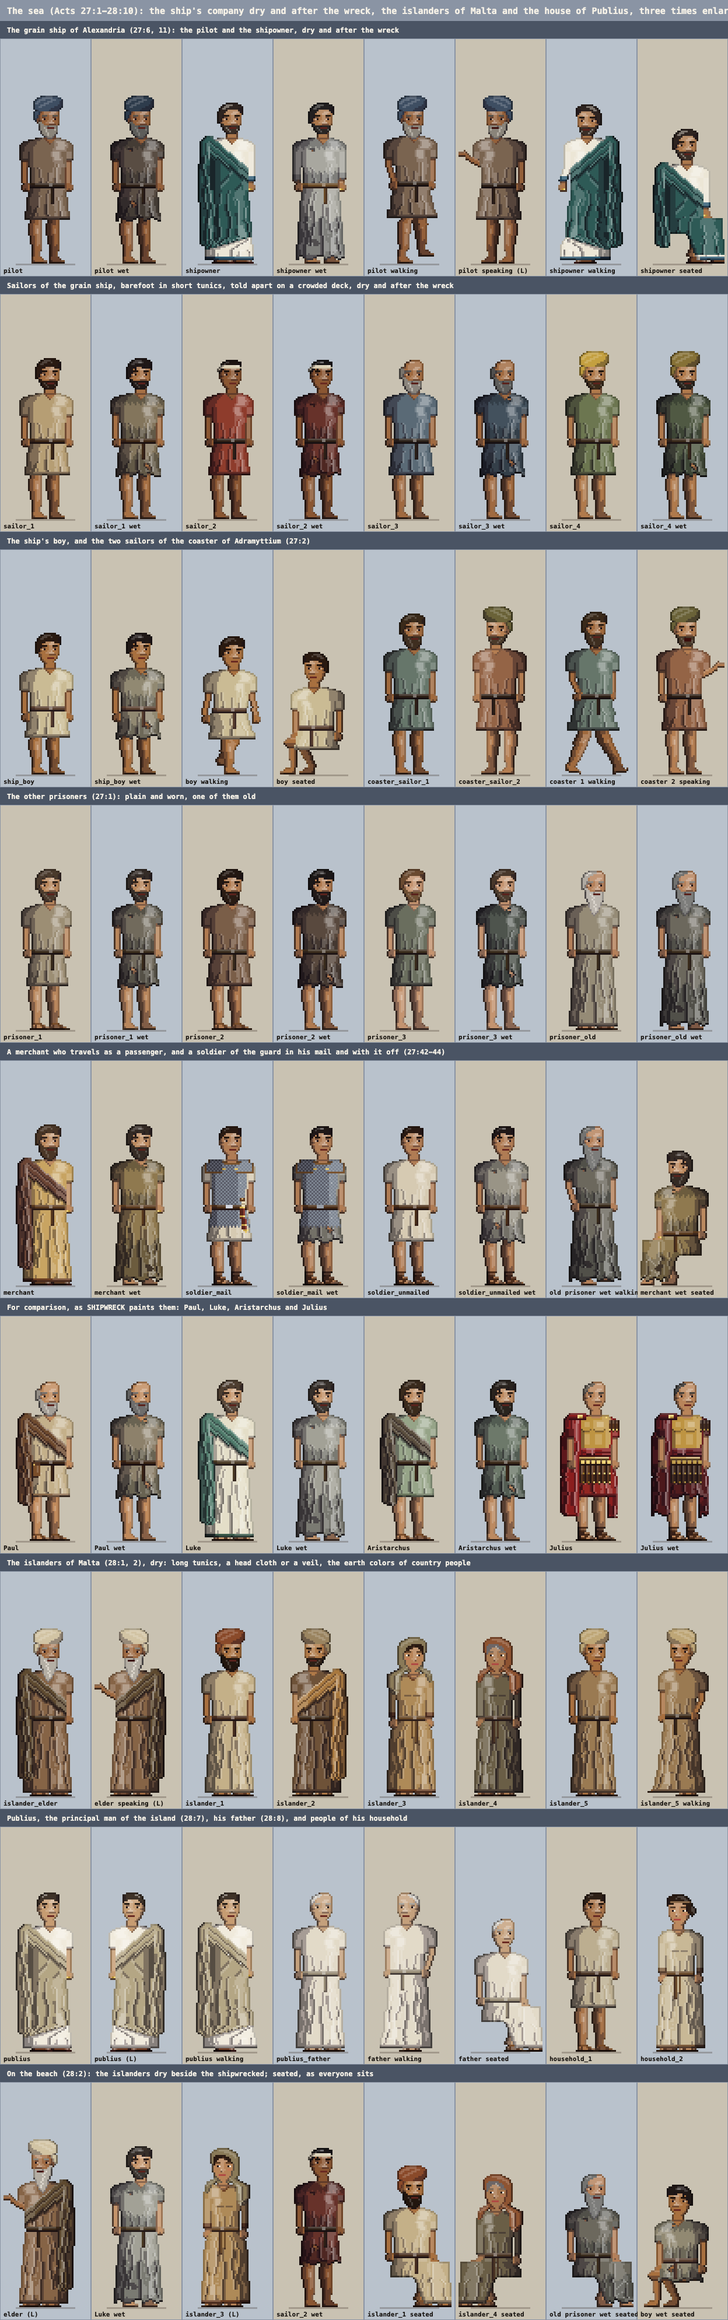
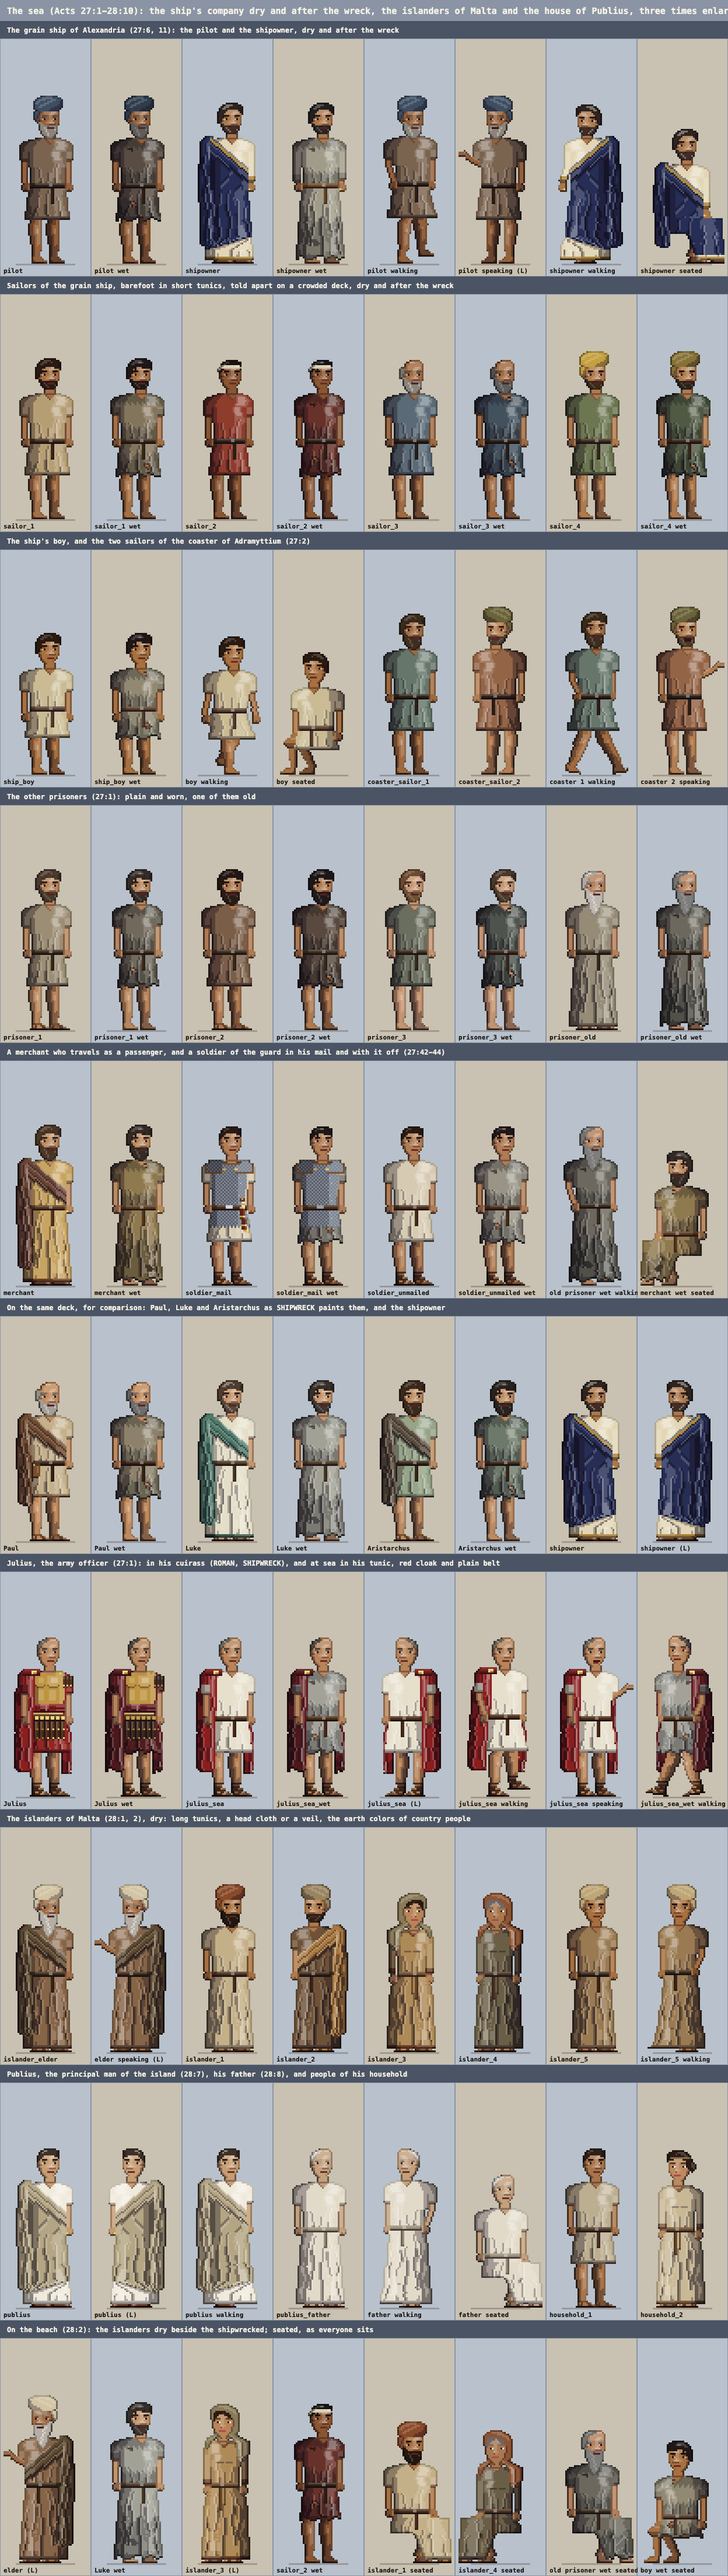
Sea cast: the shipowner in a deep indigo mantle with a narrow ochre border over a cream tunic, told apart from Luke; Julius at sea (julius_sea, julius_sea_wet) in his white tunic, red cloak and plain belt, without his cuirass; a mantle's border goes with the mantle in the wreck

diff --git a/shared/cast.js b/shared/cast.js
@@ -98,10 +98,10 @@ const ROMAN={
 };
 
 /* shipwrecked(base, opts): derive a wet, torn shipwreck survivor look from any existing character look.
-   Drops dry cloaks/helmets/spears unless keepCloak/keepArmor is set, applies soaked cloth/hair (wet:1) and ragged tears (torn:1..3). */
+   Drops dry cloaks (and the border along a mantle)/helmets/spears unless keepCloak/keepArmor is set, applies soaked cloth/hair (wet:1) and ragged tears (torn:1..3). */
 function shipwrecked(base,opts){
   const o=Object.assign({},base,{p:null,gt:null,wet:1,torn:(opts&&opts.torn)||1});
-  if(!(opts&&opts.keepCloak)){delete o.cloak;delete o.cape;delete o.offCloak;delete o.himation;delete o.toga}
+  if(!(opts&&opts.keepCloak)){delete o.cloak;delete o.cape;delete o.offCloak;delete o.himation;delete o.toga;delete o.edge}
   if(!(opts&&opts.keepArmor)){delete o.armor;delete o.armorStyle;delete o.pteruges;delete o.sash}
   delete o.helm;delete o.helmStyle;delete o.crest;delete o.spear;delete o.pilum;delete o.gladius;delete o.pouch;
   if(opts&&opts.barefoot!==undefined)o.barefoot=opts.barefoot;else if(!o.caligae)o.barefoot=1;
@@ -263,9 +263,10 @@ const SHIPWRECK={
    The grain ship of Alexandria (27:6):
      pilot             the steersman (27:11): an old hand of the sea, weathered dark, his beard grey, a dark blue head cloth against the sun
                        and the spray, a short brown tunic, barefoot.
-     shipowner         the owner of the ship and her cargo (27:11), a man of means from Alexandria: a long fine tunic with long sleeves and a
-                       band of blue at the hems, a sea-green mantle wrapped over it (himation), sandals, one ring; his beard close and his
-                       hair receding. Nothing on him is the sign of a god.
+     shipowner         the owner of the ship and her cargo (27:11), a man of means from Alexandria: a long fine cream tunic with long sleeves and a
+                       band of ochre at the hems, a deep indigo mantle wrapped over it (himation) with a narrow ochre border along it (edge),
+                       sandals, one ring; his beard close and his hair receding. No one else on the deck wears his colors (Luke wears a white
+                       tunic under a teal mantle, Julius a red cloak), and nothing on him is the sign of a rank or of a god.
      sailor_1 .. _4    sailors, barefoot in short tunics, each told apart at a glance on a crowded deck: sailor_1 the sailor of the earlier
                        sheets (SHIPWRECK.sailor_wet), short beard, a sand-colored tunic; sailor_2 young, dark, his hair cropped, a cloth bound
                        round his forehead and a madder-red tunic; sailor_3 bald, with a grey full beard and a slate-blue tunic; sailor_4 a
@@ -280,13 +281,17 @@ const SHIPWRECK={
                        over his shoulders, a full beard, a ring and good shoes.
    soldier_mail, soldier_unmailed   a soldier of the guard aboard, in mail and his belt with its sword, bareheaded at sea; and the same man
                        with his mail off, in his tunic, belt and boots: the one who cannot swim in it (Chapter Twenty-Three's planks).
+   julius_sea          Julius, the army officer of 27:1 (ROMAN.centurion_julius, the same head and the same red cloak), as he is on the
+                       days at sea: without his cuirass, in a plain white tunic with his cloak over the shoulder, a plain belt and his
+                       boots; julius_sea_wet the same after the wreck, keeping his cloak. ROMAN.centurion_julius and SHIPWRECK.julius_dry
+                       and julius_wet, in the cuirass, stay as they are.
    The islanders of Malta (28:1, 2): of Phoenician descent under Roman rule, with a language of their own. Country people, dry, in long
      tunics, in the earth colors of undyed and plant-dyed wool, the men with a head cloth, the women with a veil,
      so that they are plainly another people than the ship's company in its short tunics.
      islander_elder    the older man who talks with Luke: a long white beard, a pale head cloth, a brown tunic and an umber mantle.
      islander_1, _2    men: a wheat-colored tunic and a rust head cloth with a full black beard; a dark tunic, an ochre mantle and a
                        dun head cloth with a young beard.
-     islander_3, _4    women: a veil of dark umber over an ochre tunic; an older woman, her hair greying under a rust veil.
+     islander_3, _4    women: a veil of undyed brown over an ochre tunic; an older woman, her hair greying under a rust veil.
      islander_5        a young man, beardless, a tawny tunic and a sand-colored head cloth (he brings the sticks).
    Publius and his house (28:7-10):
      publius           "the principal man of the island", probably the leading Roman officer there and a man of lands (Insight on the
@@ -298,8 +303,8 @@ const SHIPWRECK={
 const SAILOR_1=Object.assign({},SAILOR_ALEX,{barefoot:1,ph:11500});
 const SEA_DRY={
   pilot:{skin:'#94603a',hair:'#6a625a',beard:'#8a847a',grey:'#b4aea4',fullBeard:1,brow:'#5a524a',wrap:'#3e4e62',tunic:'#7a6450',belt:'#2e2016',barefoot:1,ph:11700},
-  shipowner:{skin:'#ac784c',hair:'#2e2420',grey:'#7e766e',beard:'#3a2e26',shortBeard:1,receding:1,brow:'#241a12',tunic:'#ece6d6',long:1,longSleeve:1,trim:'#2e5a72',
-    cloak:'#2e5a56',himation:1,belt:'#6a4a26',ring:1,shoes:'#6a4026',ph:11900},
+  shipowner:{skin:'#ac784c',hair:'#2e2420',grey:'#7e766e',beard:'#3a2e26',shortBeard:1,receding:1,brow:'#241a12',tunic:'#e2d6b6',long:1,longSleeve:1,trim:'#a8823a',
+    cloak:'#262e56',himation:1,edge:'#b08a3a',belt:'#6a4a26',ring:1,shoes:'#6a4026',ph:11900},
   sailor_1:SAILOR_1,
   sailor_2:{skin:'#8a5632',hair:'#1e1410',brow:'#1a100a',crop:1,slim:1,tunic:'#8e3c2c',belt:'#2e2016',sweat:'#d8ccb0',barefoot:1,ph:12100},
   sailor_3:{skin:'#a06a40',hair:'#7a746c',beard:'#8a847c',grey:'#b8b2aa',bald:1,fullBeard:1,brow:'#5a544e',tunic:'#5a6a76',belt:'#2a2018',barefoot:1,ph:12300},
@@ -313,6 +318,8 @@ const SEA_DRY={
   prisoner_old:{skin:'#b4805a',hair:'#b0aaa2',beard:'#bcb6ae',grey:'#dad4cc',thin:1,longBeard:1,brow:'#8e8880',tunic:'#958b76',long:1,belt:'#3a2c1c',ph:13700},
   merchant:{skin:'#bc8a60',hair:'#4a3626',beard:'#4a3626',fullBeard:1,brow:'#30221a',tunic:'#c8a462',long:1,trim:'#6a3e22',cloak:'#6a4434',belt:'#5a3a1e',ring:1,shoes:'#5a3a22',ph:13900},
   soldier_mail:{skin:'#b07c54',hair:'#2a1a12',brow:'#20140e',crop:1,tunic:'#d6cab2',armor:'#7e8692',armorStyle:'mail',belt:'#4a2e18',milBelt:1,caligae:1,gladius:1,ph:14100},
+  julius_sea:{skin:ROMAN.centurion_julius.skin,hair:ROMAN.centurion_julius.hair,grey:ROMAN.centurion_julius.grey,brow:ROMAN.centurion_julius.brow,crop:1,thin:1,
+    tunic:'#e6dfcc',cloak:ROMAN.centurion_julius.cloak,offCloak:1,belt:'#4a2c16',caligae:1,ph:ROMAN.centurion_julius.ph},
   soldier_unmailed:{skin:'#b07c54',hair:'#2a1a12',brow:'#20140e',crop:1,tunic:'#d6cab2',belt:'#4a2e18',caligae:1,ph:14100},
   islander_elder:{skin:'#9e6a42',wrap:'#d2c4a4',beard:'#b4aea4',grey:'#dcd6cc',longBeard:1,brow:'#8a847a',tunic:'#866446',long:1,cloak:'#5e4a30',belt:'#3a2818',ph:14300},
   islander_1:{skin:'#a8703f',wrap:'#8a4a2a',beard:'#22160e',fullBeard:1,brow:'#1e140c',tunic:'#c4b088',long:1,belt:'#4a3020',ph:14500},
@@ -341,7 +348,8 @@ const SEA_WET={
   prisoner_old_wet:shipwrecked(SEA_DRY.prisoner_old,{torn:2,barefoot:1}),
   merchant_wet:shipwrecked(SEA_DRY.merchant,{torn:1,barefoot:1}),
   soldier_mail_wet:shipwrecked(SEA_DRY.soldier_mail,{torn:1,keepArmor:1,barefoot:0}),
-  soldier_unmailed_wet:shipwrecked(SEA_DRY.soldier_unmailed,{torn:2,barefoot:0})
+  soldier_unmailed_wet:shipwrecked(SEA_DRY.soldier_unmailed,{torn:2,barefoot:0}),
+  julius_sea_wet:shipwrecked(SEA_DRY.julius_sea,{torn:2,keepCloak:1,barefoot:0})
 };
 const SEA=Object.assign({},SEA_DRY,SEA_WET);
 

diff --git a/tools/playtest-harness.html b/tools/playtest-harness.html
@@ -857,18 +857,22 @@
     if(stop==='sea'){const S=C.SEA,W=C.SHIPWRECK,K=C.CAESAREA,ids=Object.keys(S),dry=ids.filter(k=>!/_wet$/.test(k)),wet=ids.filter(k=>/_wet$/.test(k));checkSet(S,'sea');
       const crew=['pilot','sailor_1','sailor_2','sailor_3','sailor_4','ship_boy','coaster_sailor_1','coaster_sailor_2'],isl=dry.filter(k=>/^islander_/.test(k));
       ok(['pilot','shipowner','sailor_1','sailor_2','sailor_3','sailor_4','ship_boy','coaster_sailor_1','coaster_sailor_2','prisoner_1','prisoner_2','prisoner_3','prisoner_old',
-        'merchant','soldier_mail','soldier_unmailed','islander_elder','islander_1','islander_2','islander_3','islander_4','islander_5','publius','publius_father','household_1','household_2'].every(k=>S[k]),
+        'merchant','soldier_mail','soldier_unmailed','julius_sea','islander_elder','islander_1','islander_2','islander_3','islander_4','islander_5','publius','publius_father','household_1','household_2'].every(k=>S[k]),
         'the sea: '+dry.length+' looks dry and '+wet.length+' wet, every one the chapters ask for');
       ok(wet.every(k=>S[k].wet&&S[k].torn&&S[k.replace(/_wet$/,'')]&&S[k].skin===S[k.replace(/_wet$/,'')].skin)&&dry.every(k=>!S[k].wet&&!S[k].torn),
         'everyone from the wreck is wet and torn, each made from his own dry look; nobody dry is wet');
       ok(crew.every(k=>!S[k].long&&!S[k].cloak&&S[k].barefoot)&&crew.filter(k=>S[k+'_wet']).every(k=>S[k+'_wet'].barefoot),'the sailors and the pilot are barefoot in short tunics');
       ok(isl.length>=5&&isl.every(k=>S[k].long&&(S[k].wrap||S[k].veil))&&!crew.some(k=>S[k].long)&&isl.filter(k=>S[k].veil).length>=2,'the islanders wear long tunics, the men a head cloth and the women a veil');
-      ok(!S.publius.toga&&!S.publius.clavus&&!S.publius.edge&&!S.publius.diadem&&S.publius.himation&&S.publius.ring&&!S.publius.beard&&ids.every(k=>!S[k].diadem&&!S[k].toga&&!S[k].clavus&&!S[k].edge),
-        'Publius is a Roman at home in a tunic and mantle, with no toga, purple or wreath, and nobody here wears a sign of office');
+      ok(!S.publius.toga&&!S.publius.clavus&&!S.publius.edge&&!S.publius.diadem&&S.publius.himation&&S.publius.ring&&!S.publius.beard&&ids.every(k=>!S[k].diadem&&!S[k].toga&&!S[k].clavus)&&ids.every(k=>!S[k].edge||k==='shipowner'),
+        'Publius is a Roman at home in a tunic and mantle, with no toga, purple or wreath; nobody here wears a toga, a purple stripe or a diadem, and only the shipowner a border on his mantle');
       ok(S.publius_father.long&&!S.publius_father.cloak&&S.soldier_mail_wet.armor&&!S.soldier_unmailed.armor&&!S.soldier_unmailed_wet.armor&&!S.soldier_unmailed_wet.barefoot&&!S.soldier_mail_wet.gladius,
         'his father in a plain long tunic; the soldier in his mail and with it off, in his boots, his sword lost');
       {const same=(a,b)=>JSON.stringify(Object.keys(a).filter(k=>!/^(p|gt|ph|barefoot)$/.test(k)).sort().map(k=>[k,a[k]]))===JSON.stringify(Object.keys(b).filter(k=>!/^(p|gt|ph|barefoot)$/.test(k)).sort().map(k=>[k,b[k]]));
         ok(same(S.sailor_1_wet,W.sailor_wet)&&same(S.prisoner_1_wet,W.prisoner_wet)&&same(W.luke_dry,K.luke),'the sailor and the prisoner of the shipwreck sheet are the same men here, and Luke is the same man')}
+      {const J=C.ROMAN.centurion_julius,js=S.julius_sea,jw=S.julius_sea_wet;
+        ok(['skin','hair','grey','brow','crop','thin','cloak','offCloak','caligae'].every(k=>js[k]===J[k])&&!js.armor&&!js.milBelt&&!js.gladius&&js.belt&&js.tunic!==J.tunic&&jw.cloak===J.cloak&&jw.wet&&!jw.armor&&!jw.barefoot&&J.armor&&W.julius_dry===J&&W.julius_wet.armor,
+          'Julius at sea is the same man as Julius in his cuirass: his head and his red cloak, a plain white tunic and a plain belt, his boots; wet, he keeps the cloak');
+        ok(S.shipowner.cloak!==K.luke.cloak&&S.shipowner.tunic!==K.luke.tunic&&S.shipowner.cloak!==J.cloak&&S.shipowner.edge&&!S.shipowner_wet.cloak,'the shipowner wears a mantle no one else on the deck wears, Luke'+"'s"+' or Julius'+"'s"+' least of all')}
       const PAIR=k=>[[k,S[k]],[k+' wet',S[k+'_wet']]],
         ROWS=[
         ['The grain ship of Alexandria (27:6, 11): the pilot and the shipowner, dry and after the wreck',[...PAIR('pilot'),...PAIR('shipowner'),['pilot walking',S.pilot,1,10],['pilot speaking (L)',S.pilot,-1,0,2,2],['shipowner walking',S.shipowner,-1,8],['shipowner seated',S.shipowner,1,-1]]],
@@ -876,7 +880,8 @@
         ['The ship\'s boy, and the two sailors of the coaster of Adramyttium (27:2)',[...PAIR('ship_boy'),['boy walking',S.ship_boy,1,8],['boy seated',S.ship_boy,-1,-1],['coaster_sailor_1',S.coaster_sailor_1],['coaster_sailor_2',S.coaster_sailor_2,-1,0],['coaster 1 walking',S.coaster_sailor_1,1,12],['coaster 2 speaking',S.coaster_sailor_2,1,0,3,2]]],
         ['The other prisoners (27:1): plain and worn, one of them old',[...PAIR('prisoner_1'),...PAIR('prisoner_2'),...PAIR('prisoner_3'),...PAIR('prisoner_old')]],
         ['A merchant who travels as a passenger, and a soldier of the guard in his mail and with it off (27:42-44)',[...PAIR('merchant'),...PAIR('soldier_mail'),...PAIR('soldier_unmailed'),['old prisoner wet walking',S.prisoner_old_wet,1,10],['merchant wet seated',S.merchant_wet,-1,-1]]],
-        ['For comparison, as SHIPWRECK paints them: Paul, Luke, Aristarchus and Julius',[['Paul',W.paul_dry],['Paul wet',W.paul_wet],['Luke',W.luke_dry],['Luke wet',W.luke_wet],['Aristarchus',K.aristarchus],['Aristarchus wet',W.aristarchus_wet],['Julius',W.julius_dry],['Julius wet',W.julius_wet]]],
+        ['On the same deck, for comparison: Paul, Luke and Aristarchus as SHIPWRECK paints them, and the shipowner',[['Paul',W.paul_dry],['Paul wet',W.paul_wet],['Luke',W.luke_dry],['Luke wet',W.luke_wet],['Aristarchus',K.aristarchus],['Aristarchus wet',W.aristarchus_wet],['shipowner',S.shipowner],['shipowner (L)',S.shipowner,-1,0]]],
+        ['Julius, the army officer (27:1): in his cuirass (ROMAN, SHIPWRECK), and at sea in his tunic, red cloak and plain belt',[['Julius',W.julius_dry],['Julius wet',W.julius_wet],['julius_sea',S.julius_sea],['julius_sea_wet',S.julius_sea_wet],['julius_sea (L)',S.julius_sea,-1,0],['julius_sea walking',S.julius_sea,1,10],['julius_sea speaking',S.julius_sea,1,0,2,2],['julius_sea_wet walking',S.julius_sea_wet,-1,12]]],
         ['The islanders of Malta (28:1, 2), dry: long tunics, a head cloth or a veil, the earth colors of country people',[['islander_elder',S.islander_elder],['elder speaking (L)',S.islander_elder,-1,0,2,2],['islander_1',S.islander_1],['islander_2',S.islander_2,-1,0],['islander_3',S.islander_3],['islander_4',S.islander_4,-1,0],['islander_5',S.islander_5],['islander_5 walking',S.islander_5,-1,10]]],
         ['Publius, the principal man of the island (28:7), his father (28:8), and people of his household',[['publius',S.publius],['publius (L)',S.publius,-1,0],['publius walking',S.publius,1,10],['publius_father',S.publius_father],['father walking',S.publius_father,-1,10],['father seated',S.publius_father,1,-1],['household_1',S.household_1],['household_2',S.household_2,-1,0]]],
         ['On the beach (28:2): the islanders dry beside the shipwrecked; seated, as everyone sits',[['elder (L)',S.islander_elder,-1,0,1,2],['Luke wet',W.luke_wet,1,0],['islander_3 (L)',S.islander_3,-1,0],['sailor_2 wet',S.sailor_2_wet,1,0],['islander_1 seated',S.islander_1,1,-1],['islander_4 seated',S.islander_4,-1,-1],['old prisoner wet seated',S.prisoner_old_wet,1,-1],['boy wet seated',S.ship_boy_wet,-1,-1]]]

diff --git a/docs/development.md b/docs/development.md
@@ -94,7 +94,7 @@ Inside a level file:
 - **Caesarea** (Acts 24:1-26:32; `shared/cast.js`, need `cast`). `SHARED.cast.CAESAREA` holds the people of Chapters Twenty and Twenty-One: `tertullus` (the public speaker, in a tunic and Greek mantle, with no mark of any nation), `drusilla`, `festus` (the governor's toga, as Felix wears it, on another man), `agrippa`, `bernice`, `governors_clerk` (with his writing board), `adviser_1` and `adviser_2`, `leading_man_1` to `leading_man_3`, `commander_a` to `commander_c` (of the commander's rank, bareheaded), `brother_1` and `brother_2`, and the looks of `luke`, `philip` and `aristarchus` from Chapter Twenty on, the same as Chapters Fifteen to Eighteen paint them. The figure painter takes three more words in a look for them: `diadem` (a color, gold for a king) is a plain band two rows deep round a man's head at the hairline, following the outline of whatever hair he has and darkening toward the back of the head, with nothing standing up from it or hanging from it, and never drawn under a headcloth, a mantle or a helmet; `necklace` (a color) is a woman's fine string of single square links in one curve round the foot of the neck, with no pendant; and `earring` (a color) a small drop of two square pixels under her near ear, hidden when a mantle is drawn over her head. `node tools/playtest.mjs caesarea` checks every pose of every look and the marks each must have and lack, and shows them on `cast-caesarea.png` (docs/screenshots/caesarea-cast.png), and Agrippa's head in every frame of speech, the diadem on every kind of hair and the women's gold eight times enlarged on `cast-caesarea-detail.png`.
 
 ![The people of Caesarea (stop caesarea)](screenshots/caesarea-cast.png)
-- **The sea** (Acts 27:1-28:10; `shared/cast.js`, need `cast`). `SHARED.cast.SEA` holds the people of Chapters Twenty-Two and Twenty-Three. No source describes anyone's dress on the ship or the island, so every look is invented, plausible for the time and in keeping with the seamen and country people of the earlier chapters. The grain ship's `pilot` (a grey beard and a dark head cloth) and `shipowner` (a man of means from Alexandria in a long fine tunic and a Greek mantle, with nothing on him that belongs to a god); `sailor_1` to `sailor_4` and `ship_boy`, barefoot in short tunics, each told apart by his head and the color of his tunic; `coaster_sailor_1` and `coaster_sailor_2` of the coaster of Adramyttium; the other prisoners `prisoner_1` to `prisoner_3` and `prisoner_old`; a `merchant` traveling as a passenger; a soldier of the guard in his mail, `soldier_mail`, and the same man with it off, `soldier_unmailed`. Each of these but the coaster's men has a look after the wreck, its key ending in `_wet`, made from his own by `shipwrecked()`: soaked, torn, his mantle lost and his sandals with it, while the soldiers keep their boots and the one in mail his mail. The islanders of Malta are dry and plainly another people: `islander_elder` (the man who talks with Luke), `islander_1` to `islander_5`, in long tunics in the earth colors of country people, the men with a head cloth and the women with a veil. `publius` is a Roman at home, clean-shaven in a white tunic and a mantle of undyed wool, with a ring and no toga, purple or wreath; `publius_father` an old man in a plain long tunic; `household_1` and `household_2` people of his house. Luke, Aristarchus and Julius are the looks of `CAESAREA` and `ROMAN`, wet in `SHIPWRECK`, and `sailor_1_wet` and `prisoner_1_wet` are `SHIPWRECK.sailor_wet` and `prisoner_wet`. `node tools/playtest.mjs sea` checks every pose of every look and what each must wear, and shows them dry beside wet on `cast-sea.png` (docs/screenshots/sea-cast.png), and every head eight times and hems and feet six times enlarged on `cast-sea-detail.png`.
+- **The sea** (Acts 27:1-28:10; `shared/cast.js`, need `cast`). `SHARED.cast.SEA` holds the people of Chapters Twenty-Two and Twenty-Three. No source describes anyone's dress on the ship or the island, so every look is invented, plausible for the time and in keeping with the seamen and country people of the earlier chapters. The grain ship's `pilot` (a grey beard and a dark head cloth) and `shipowner` (a man of means from Alexandria in a long cream tunic and a deep indigo Greek mantle with a narrow ochre border, colors no one else on the deck wears, and nothing on him that belongs to a god); `sailor_1` to `sailor_4` and `ship_boy`, barefoot in short tunics, each told apart by his head and the color of his tunic; `coaster_sailor_1` and `coaster_sailor_2` of the coaster of Adramyttium; the other prisoners `prisoner_1` to `prisoner_3` and `prisoner_old`; a `merchant` traveling as a passenger; a soldier of the guard in his mail, `soldier_mail`, and the same man with it off, `soldier_unmailed`; and Julius as he is at sea, `julius_sea`: the head and the red cloak of `ROMAN.centurion_julius`, without his cuirass, in a plain white tunic with a plain belt and his boots. Each of these but the coaster's men has a look after the wreck, its key ending in `_wet`, made from his own by `shipwrecked()`: soaked, torn, his mantle lost and his sandals with it, while the soldiers keep their boots, the one in mail his mail and Julius his cloak; a border along a mantle goes with the mantle. The islanders of Malta are dry and plainly another people: `islander_elder` (the man who talks with Luke), `islander_1` to `islander_5`, in long tunics in the earth colors of country people, the men with a head cloth and the women with a veil. `publius` is a Roman at home, clean-shaven in a white tunic and a mantle of undyed wool, with a ring and no toga, purple or wreath; `publius_father` an old man in a plain long tunic; `household_1` and `household_2` people of his house. Luke, Aristarchus and Julius are the looks of `CAESAREA` and `ROMAN`, wet in `SHIPWRECK`, and `sailor_1_wet` and `prisoner_1_wet` are `SHIPWRECK.sailor_wet` and `prisoner_wet`. `node tools/playtest.mjs sea` checks every pose of every look and what each must wear, and shows them dry beside wet on `cast-sea.png` (docs/screenshots/sea-cast.png), and every head eight times and hems and feet six times enlarged on `cast-sea-detail.png`.
 
 ![The people of the sea (stop sea)](screenshots/sea-cast.png)
 - **One sentence held, and two tongues.** Chapter Eighteen keeps where the story stands in one function of its flags, `phase18()` (arrive, elders, temple, days, stairs, barracks), and `place18` places everyone from it. Paul's one true sentence is an item, `roman18` (Roman by birth), which every person's `give` hands to `useRoman18`: only the army officer in the soldiers' quarters, while Paul is held (`G.held18`), turns it into 22:25. That moment is timed while the player could act: the room's `draw` starts `reset18` when it has passed (45 seconds, 9 in the playtest), and the runner who calls the officer away ends in the moment coming again, so there is no dead end and no blow. On the stairs `speakTo18` offers each line of `SAY18` twice through the templates `in_greek_line` and `in_hebrew_line` ("In Greek: {line}"), and gives `choose` the keys to mix them by (`by`, as "greek " or "hebrew " and the line's key), so the order is the same in every language; the story compares those keys, never the text. The stairs and the soldiers' quarters are rooms in which Paul stands still (`walk` a single point), since he is chained or held. Where Paul looks while he is carried (`LOOK18`) sets a flag for each thing seen, and `WHY18` offers in the soldiers' quarters one line that is always true and one more for each flag. The warning stone's words are hotspots laid over the painted letters (`READ18`, `wordBox18`), so a repaint of the stone keeps its boxes in `ST18`.
